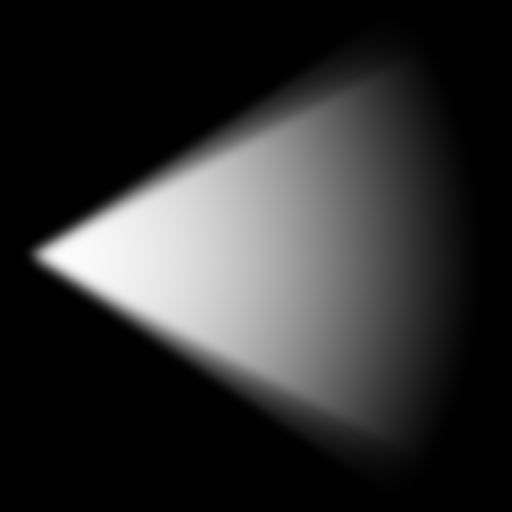
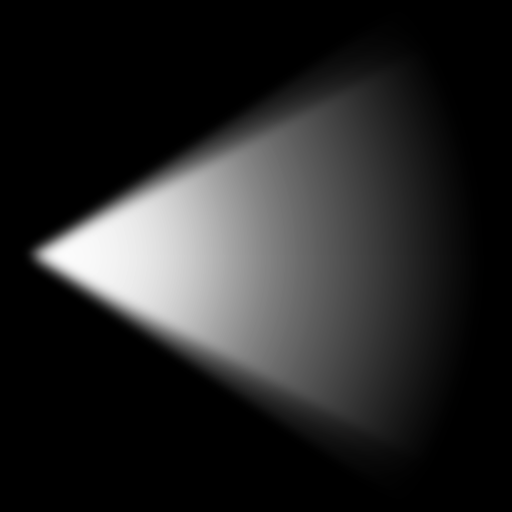
Changed light blending from "color * lightcolor" to "color * lightcolor * 2". Meaning that lights can now make the base color brighter, and a 50% brightness corresponds to the previous full brightness. Now it's possible to make more intense light sources, for example an explosion, a large fire or a 

Changed region(s): [[0.3438, 0.1875, 0.75, 0.8125]]

diff --git a/Barotrauma/BarotraumaClient/Source/Map/Lights/LightManager.cs b/Barotrauma/BarotraumaClient/Source/Map/Lights/LightManager.cs
@@ -465,27 +465,14 @@ namespace Barotrauma.Lights
     {
         static CustomBlendStates()
         {
-            Multiplicative = new BlendState();
-            Multiplicative.ColorSourceBlend = Multiplicative.AlphaSourceBlend = Blend.Zero;
-            Multiplicative.ColorDestinationBlend = Multiplicative.AlphaDestinationBlend = Blend.SourceColor;
-            Multiplicative.ColorBlendFunction = Multiplicative.AlphaBlendFunction = BlendFunction.Add;
-
-            WriteToAlpha = new BlendState();
-            WriteToAlpha.ColorWriteChannels = ColorWriteChannels.Alpha;
-
-            MultiplyWithAlpha = new BlendState();
-            MultiplyWithAlpha.ColorDestinationBlend = MultiplyWithAlpha.AlphaDestinationBlend = Blend.One;
-            MultiplyWithAlpha.ColorSourceBlend = MultiplyWithAlpha.AlphaSourceBlend = Blend.DestinationAlpha;
-
-            LOS = new BlendState();
-            LOS.ColorSourceBlend = LOS.AlphaSourceBlend = Blend.Zero;
-            LOS.ColorDestinationBlend = LOS.AlphaDestinationBlend = Blend.InverseSourceColor;
-            LOS.ColorBlendFunction = LOS.AlphaBlendFunction = BlendFunction.Add;
+            Multiplicative = new BlendState
+            {
+                ColorSourceBlend = Blend.DestinationColor,
+                ColorDestinationBlend = Blend.SourceColor,
+                ColorBlendFunction = BlendFunction.Add
+            };
         }
         public static BlendState Multiplicative { get; private set; }
-        public static BlendState WriteToAlpha { get; private set; }
-        public static BlendState MultiplyWithAlpha { get; private set; }
-        public static BlendState LOS { get; private set; }
     }
 
 }

diff --git a/Barotrauma/BarotraumaClient/Source/DebugConsole.cs b/Barotrauma/BarotraumaClient/Source/DebugConsole.cs
@@ -338,6 +338,24 @@ namespace Barotrauma
                 NewMessage("Lighting " + (GameMain.LightManager.LightingEnabled ? "enabled" : "disabled"), Color.White);
             }, isCheat: true));
 
+            commands.Add(new Command("multiplylights", "Multiplies the colors of all the static lights in the sub with the given color value.", (string[] args) =>
+            {
+                if (Screen.Selected != GameMain.SubEditorScreen || args.Length < 1) return;
+
+                Color color = XMLExtensions.ParseColor(args[0]);
+                foreach (Item item in Item.ItemList)
+                {
+                    if (item.ParentInventory != null || item.body != null) continue;
+                    var lightComponent = item.GetComponent<LightComponent>();
+                    if (lightComponent != null) lightComponent.LightColor = 
+                        new Color(
+                            (lightComponent.LightColor.R / 255.0f) * (color.R / 255.0f), 
+                            (lightComponent.LightColor.G / 255.0f) * (color.G / 255.0f),
+                            (lightComponent.LightColor.B / 255.0f) * (color.B / 255.0f),
+                            (lightComponent.LightColor.A / 255.0f) * (color.A / 255.0f));
+                }
+            }, isCheat: false));
+
             commands.Add(new Command("tutorial", "", (string[] args) =>
             {
                 TutorialMode.StartTutorial(Tutorials.Tutorial.Tutorials[0]);

diff --git a/Barotrauma/BarotraumaClient/Source/Screens/SubEditorScreen.cs b/Barotrauma/BarotraumaClient/Source/Screens/SubEditorScreen.cs
@@ -293,7 +293,11 @@ namespace Barotrauma
 
             var tickBox = new GUITickBox(new RectTransform(new Vector2(1.0f, 0.03f), paddedLeftPanel.RectTransform), TextManager.Get("ShowLighting"))
             {
-                OnSelected = (GUITickBox obj) => { lightingEnabled = !lightingEnabled; return true; }
+                OnSelected = (GUITickBox obj) => 
+                {
+                    lightingEnabled = !lightingEnabled;
+                    return true;
+                }
             };
             tickBox = new GUITickBox(new RectTransform(new Vector2(1.0f, 0.03f), paddedLeftPanel.RectTransform), TextManager.Get("ShowWaypoints"))
             {
@@ -878,6 +882,13 @@ namespace Barotrauma
             cam.Position = Submarine.MainSub.Position + Submarine.MainSub.HiddenSubPosition;
 
             loadFrame = null;
+
+            //turn off lights that are inside an inventory (cabinet for example)
+            foreach (Item item in Item.ItemList)
+            {
+                var lightComponent = item.GetComponent<LightComponent>();
+                if (lightComponent != null) lightComponent.Light.Enabled = item.ParentInventory == null;
+            }
 
             return true;
         }

diff --git a/Barotrauma/BarotraumaClient/Source/Items/Components/LightComponent.cs b/Barotrauma/BarotraumaClient/Source/Items/Components/LightComponent.cs
@@ -9,6 +9,11 @@ namespace Barotrauma.Items.Components
     {
         private LightSource light;
 
+        public LightSource Light
+        {
+            get { return light; }
+        }
+
         public void Draw(Microsoft.Xna.Framework.Graphics.SpriteBatch spriteBatch, bool editing = false)
         {
             if (light.LightSprite != null && (item.body == null || item.body.Enabled))
